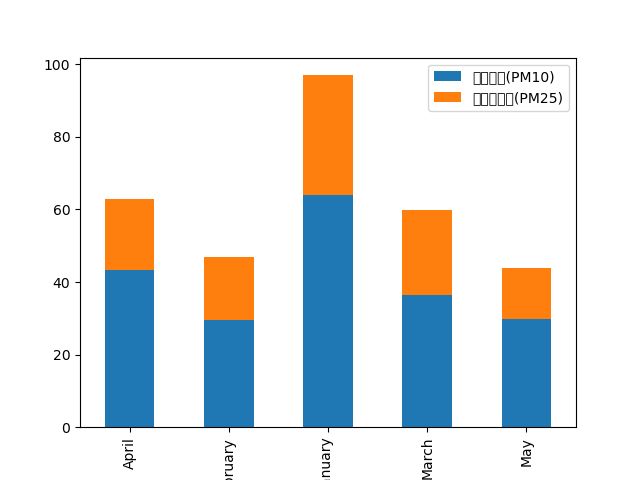
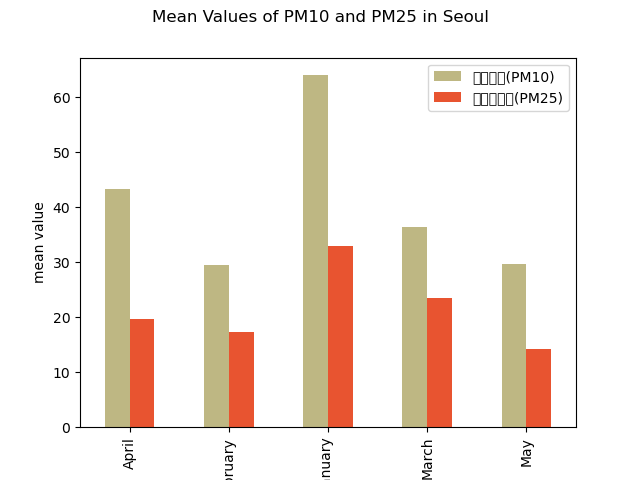
[matplotlib] plot formatting

diff --git a/Python for Data Science/matplotlib with CSV.py b/Python for Data Science/matplotlib with CSV.py
@@ -13,10 +13,20 @@ plt.savefig('Python for Data Science/result_img/plot2.png')
 
 (df.groupby('month')['미세먼지(PM10)'].mean()).plot(kind="bar")
 plt.savefig('Python for Data Science/result_img/monthly_pm10_mean.png')
+
 df=df.groupby('month')[['미세먼지(PM10)','초미세먼지(PM25)']].mean()
-df.plot(kind="bar",stacked=True)
+df.plot(kind="bar"
+,stacked=False
+# ,legend=False
+,color=["#beb783","#e85430"]
+)
+plt.xlabel('month')
+plt.ylabel('mean value')
+plt.suptitle("Mean Values of PM10 and PM25 in Seoul")
 plt.savefig('Python for Data Science/result_img/monthly_pm_mean.png')
+
 df.plot(kind="bar",stacked=False)
 plt.savefig('Python for Data Science/result_img/monthly_pm_mean2.png')
+
 df.plot(kind="barh",stacked=False)
 plt.savefig('Python for Data Science/result_img/monthly_pm_mean3.png')
